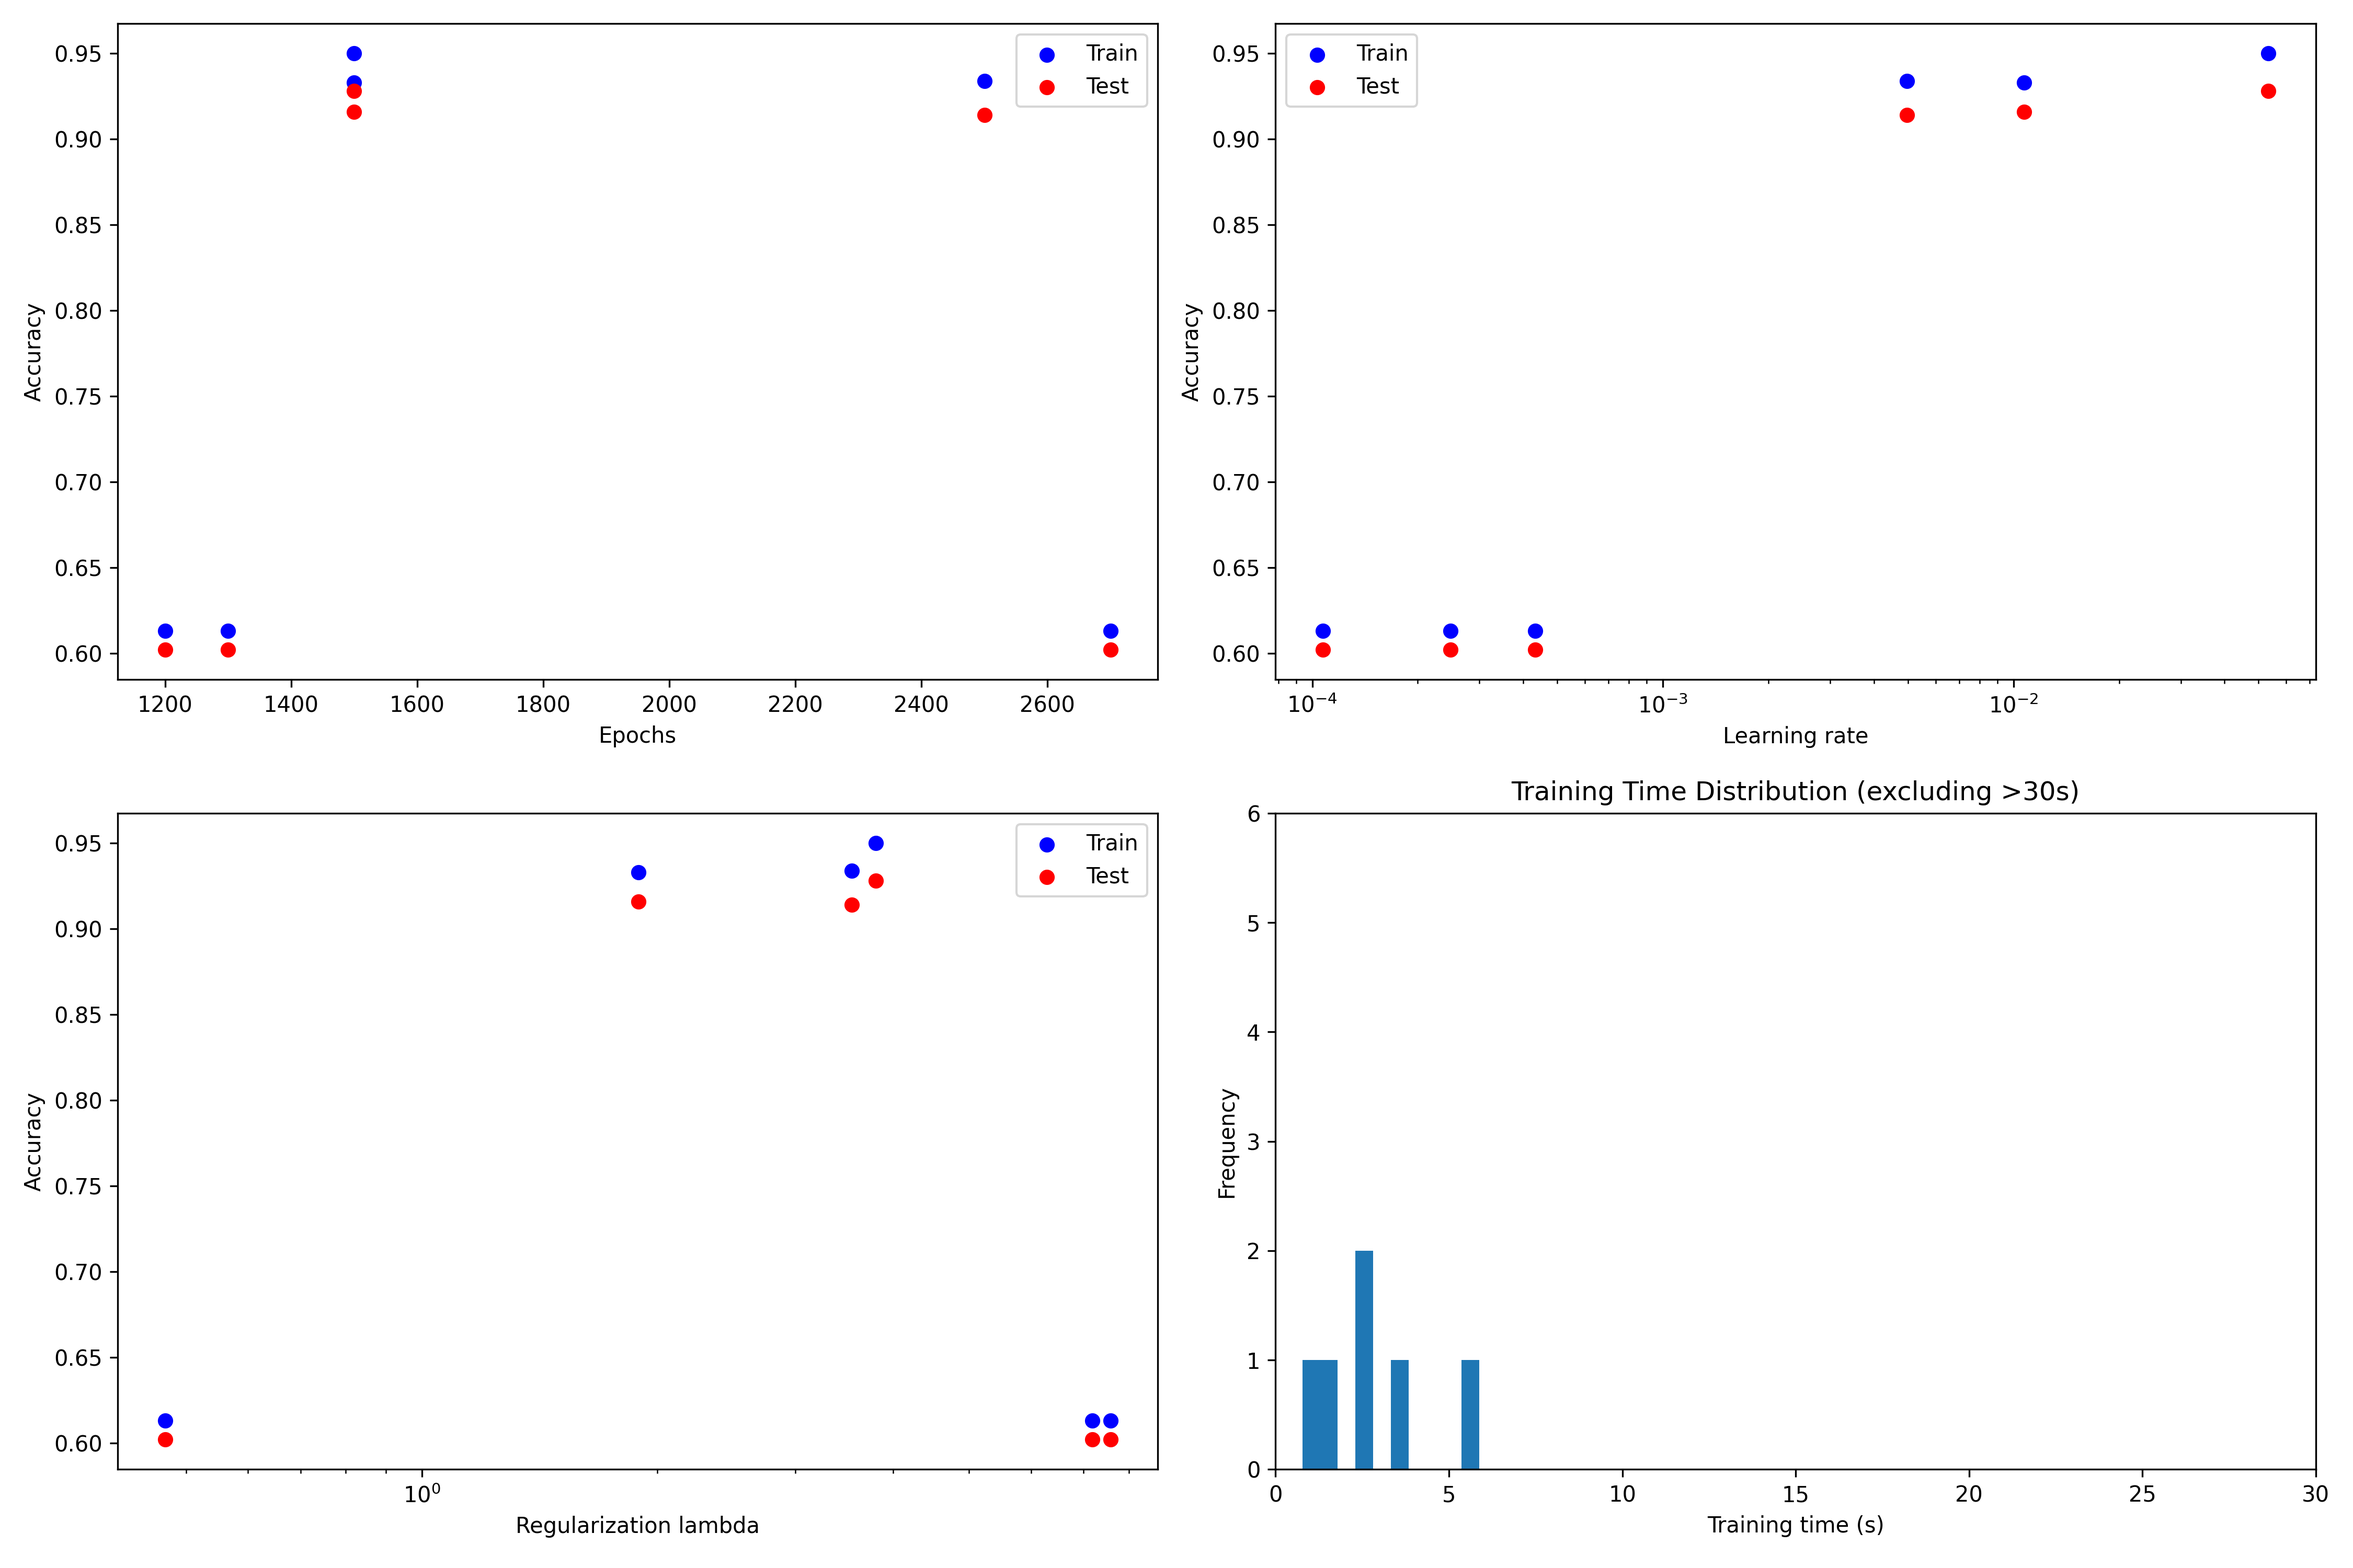
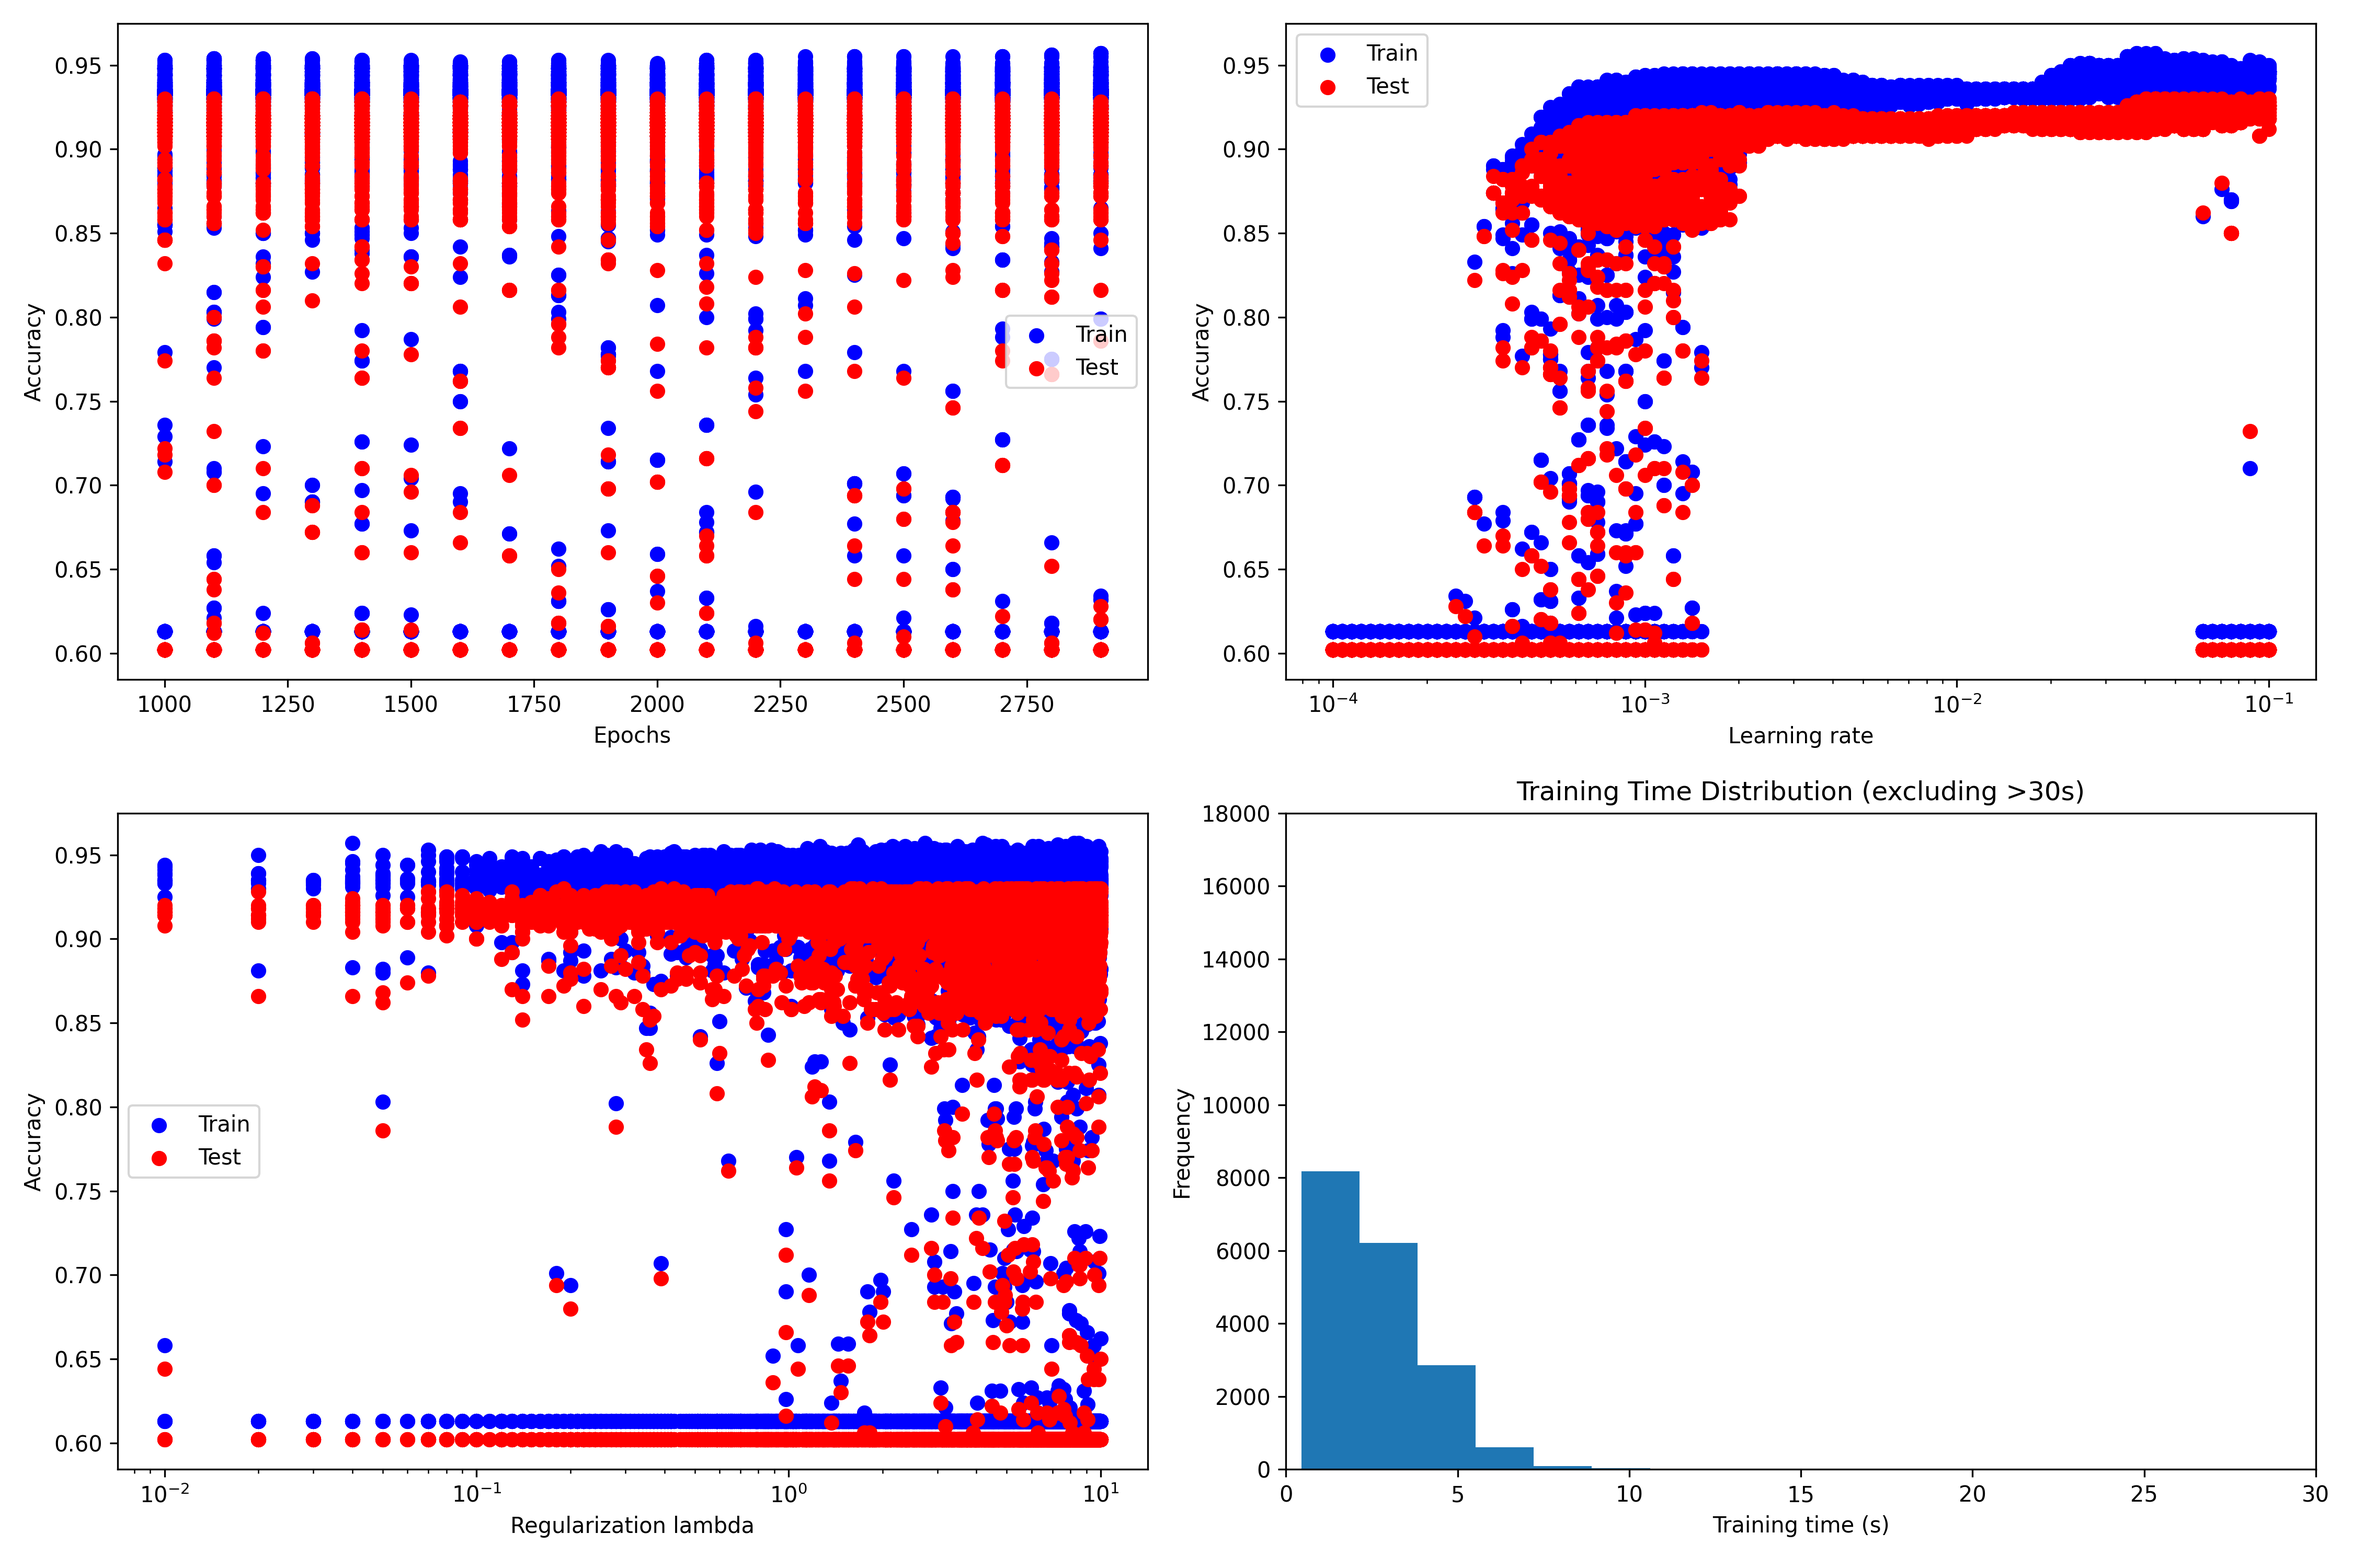
chore: set fine tuned hyperparams

diff --git a/spam_classifier/spam_classifier_tuner.py b/spam_classifier/spam_classifier_tuner.py
@@ -8,13 +8,15 @@ import numpy as np
 
 
 class Tuner:
-    def __init__(self, model, param_grid, cv=3):
+    def __init__(self, model, param_grid, max_iter=18000):
         self.results = None
         self.model = model
         self.param_grid = param_grid
+        self.max_iter = max_iter
 
     def fit(self, train_samples, train_features, test_samples, test_features):
         param_combinations = list(product(*self.param_grid.values()))
+        print(f"Total num of combinations: {len(param_combinations)}")
 
         results = {
             'params': [],
@@ -56,6 +58,9 @@ class Tuner:
             if test_score > best_test_score:
                 best_test_score = test_score
                 best_params = params
+
+            if iteration >= self.max_iter:
+                break
 
         print(f"best_test_score={best_test_score}, best_params={best_params}")
         self.results = results

diff --git a/spam_classifier/spam_classifier.py b/spam_classifier/spam_classifier.py
@@ -94,10 +94,10 @@ class SpamClassifier:
 
     def __init__(
             self,
-            layers_config: List[Tuple[int, str]] = ((54, 'sigmoid'), (25, 'relu'), (25, 'relu'), (1, 'tanh')),
-            learning_rate: float = 0.01,
-            epochs: int = 1100,
-            reg_lambda: float = 0.01
+            layers_config: List[Tuple[int, str]] = ((54, 'sigmoid'), (40, 'sigmoid'), (40, 'sigmoid'), (1, 'sigmoid')),
+            learning_rate: float = 0.043,
+            epochs: int = 1200,
+            reg_lambda: float = 3.48
     ):
         """
         Initializes a SpamClassifier object with the specified configuration.
